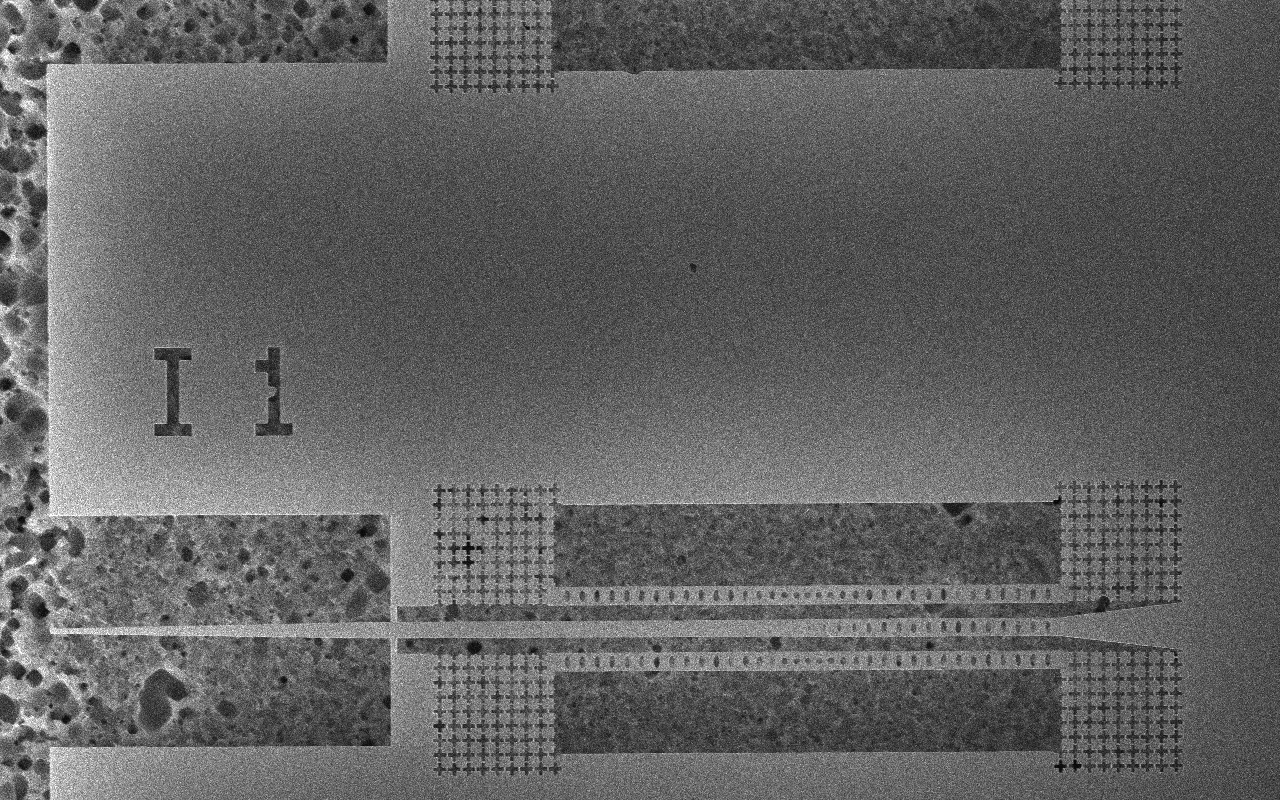
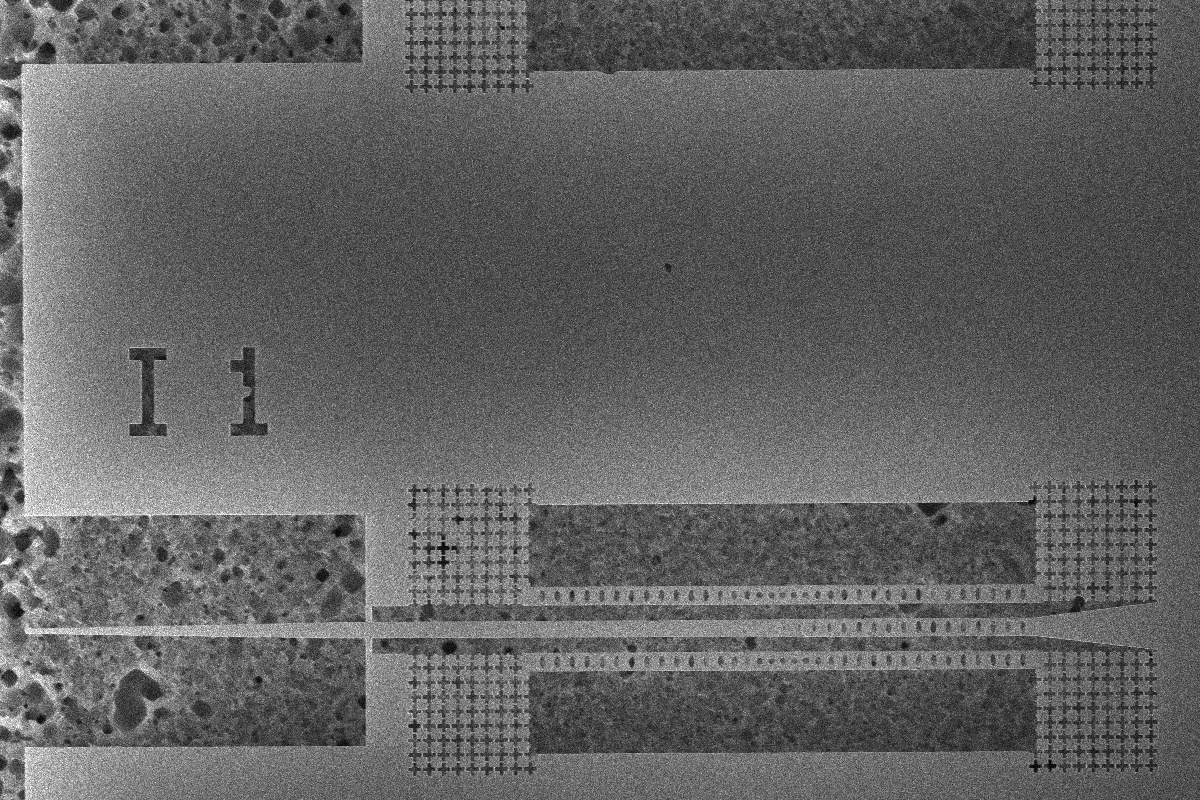
Updated photos

diff --git a/components/research-section.tsx b/components/research-section.tsx
@@ -87,11 +87,11 @@ export function ResearchSection() {
                   {/* seam gradient blends the light image into the dark card */}
                   <span
                     aria-hidden
-                    className="pointer-events-none absolute inset-x-0 bottom-0 h-16 bg-gradient-to-t from-background/90 to-transparent"
+                    className="pointer-events-none absolute inset-x-0 bottom-0 h-28 bg-gradient-to-t from-background/90 to-transparent"
                   />
                   {p.metric && (
                     <div className="absolute bottom-3 left-4 flex items-baseline gap-2">
-                      <span className="font-mono text-2xl tracking-tight text-highlight-2 [text-shadow:0_1px_10px_var(--background)]">
+                      <span className="font-mono text-xl tracking-tight text-highlight-2 [text-shadow:0_1px_10px_var(--background)]">
                         {p.metric.value}
                       </span>
                       <span className="font-mono text-[10px] uppercase tracking-[0.16em] text-foreground/80 [text-shadow:0_1px_8px_var(--background)]">
